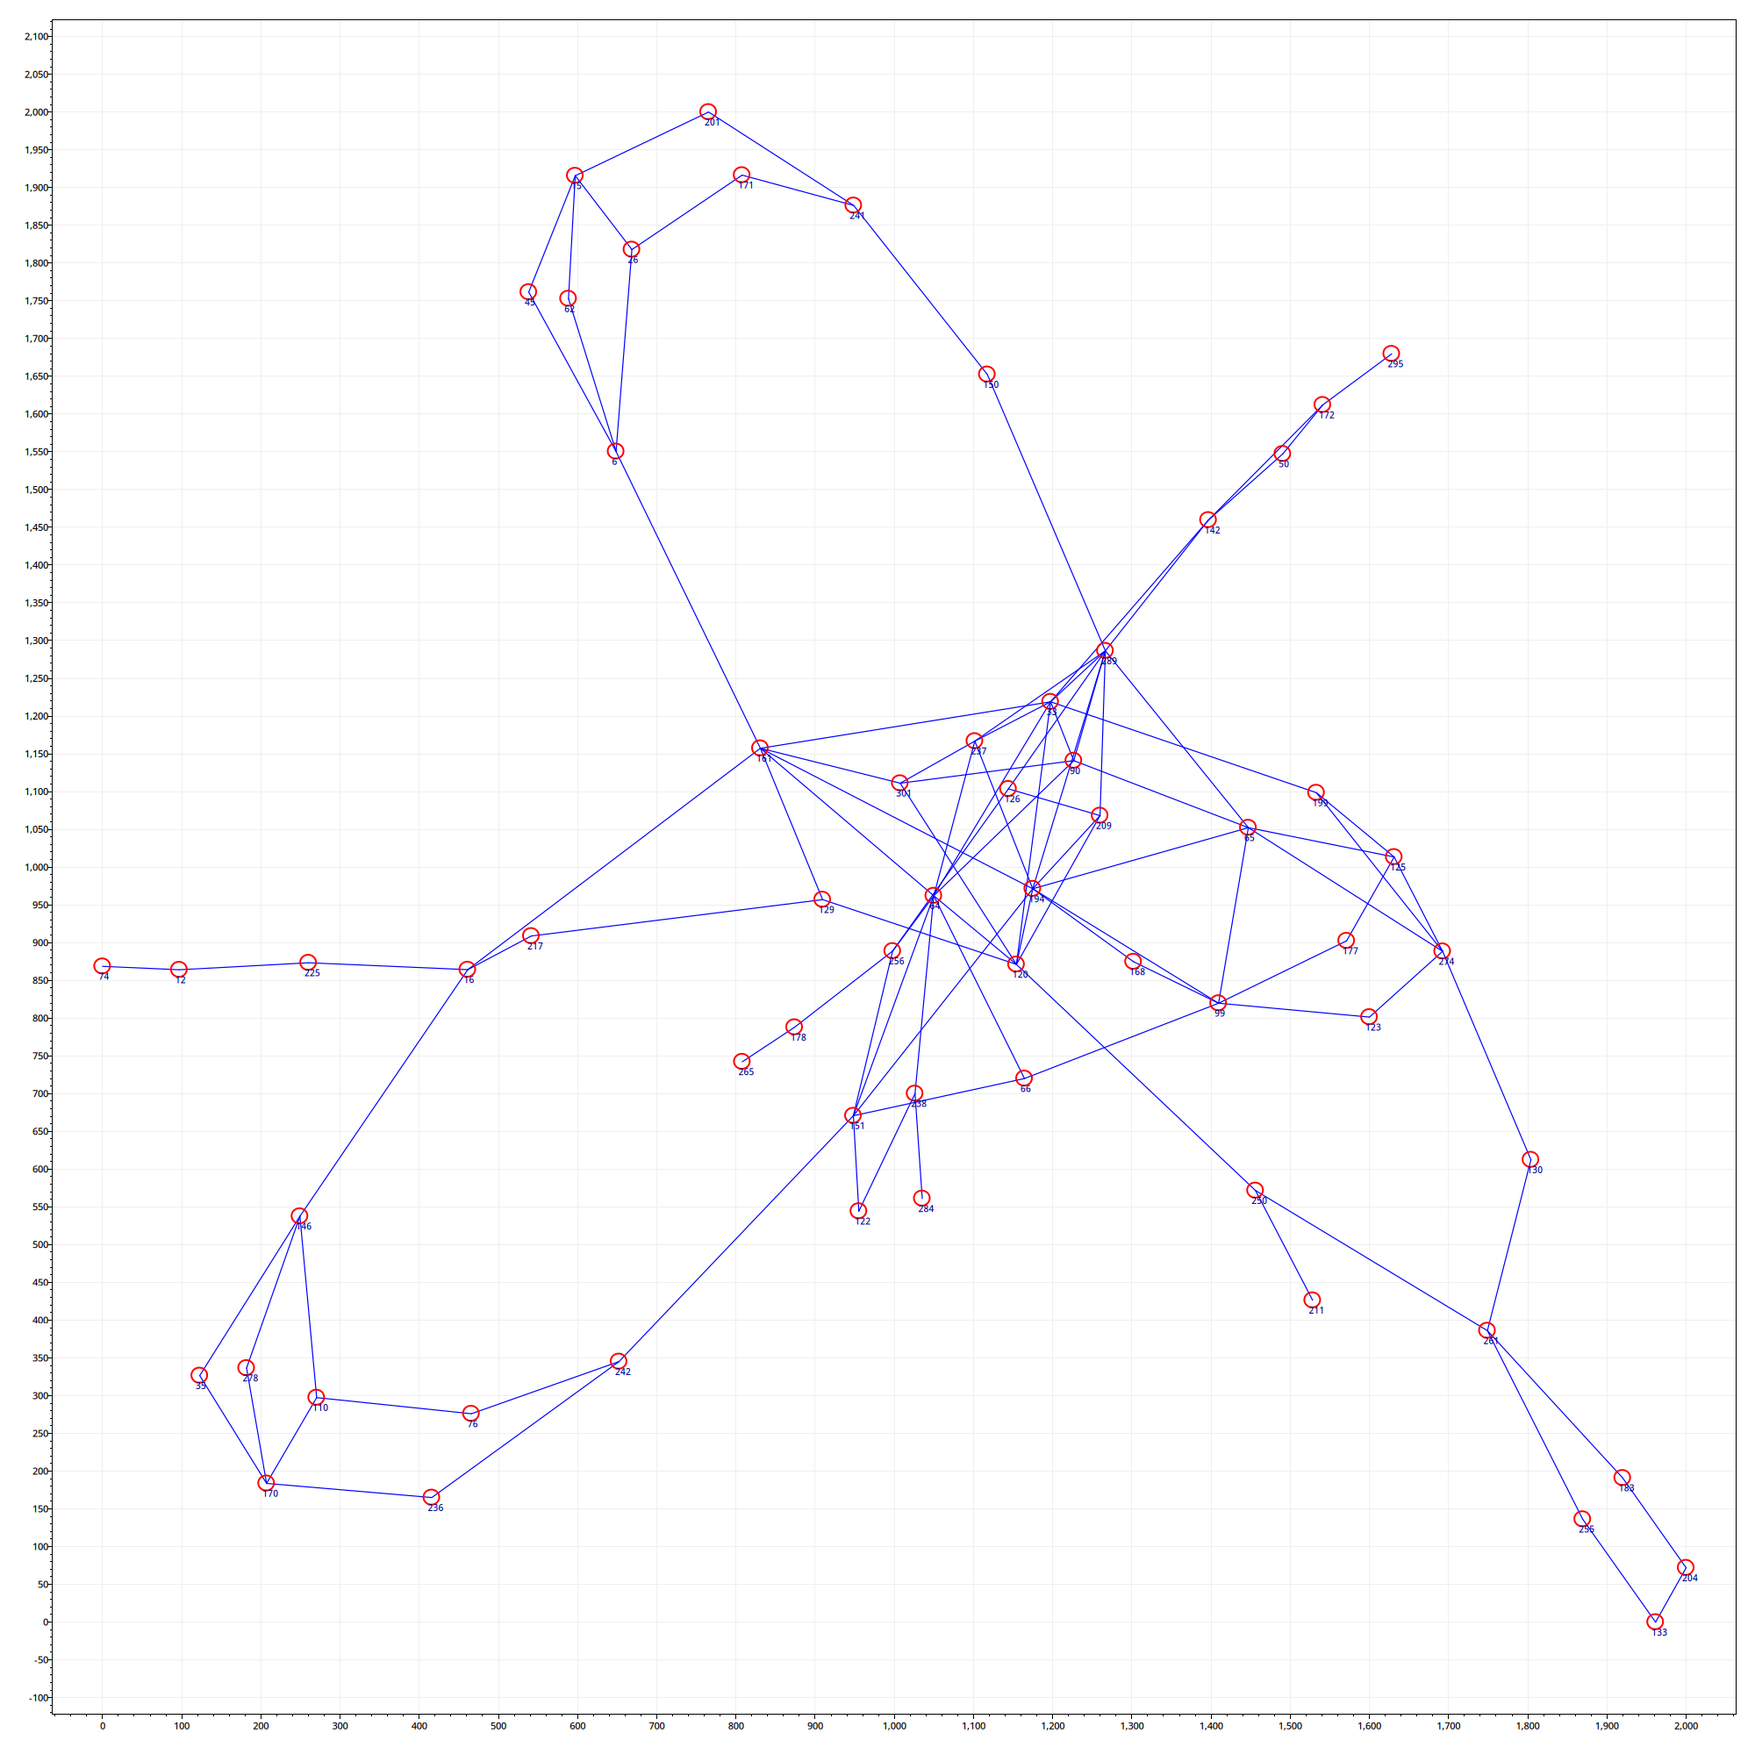
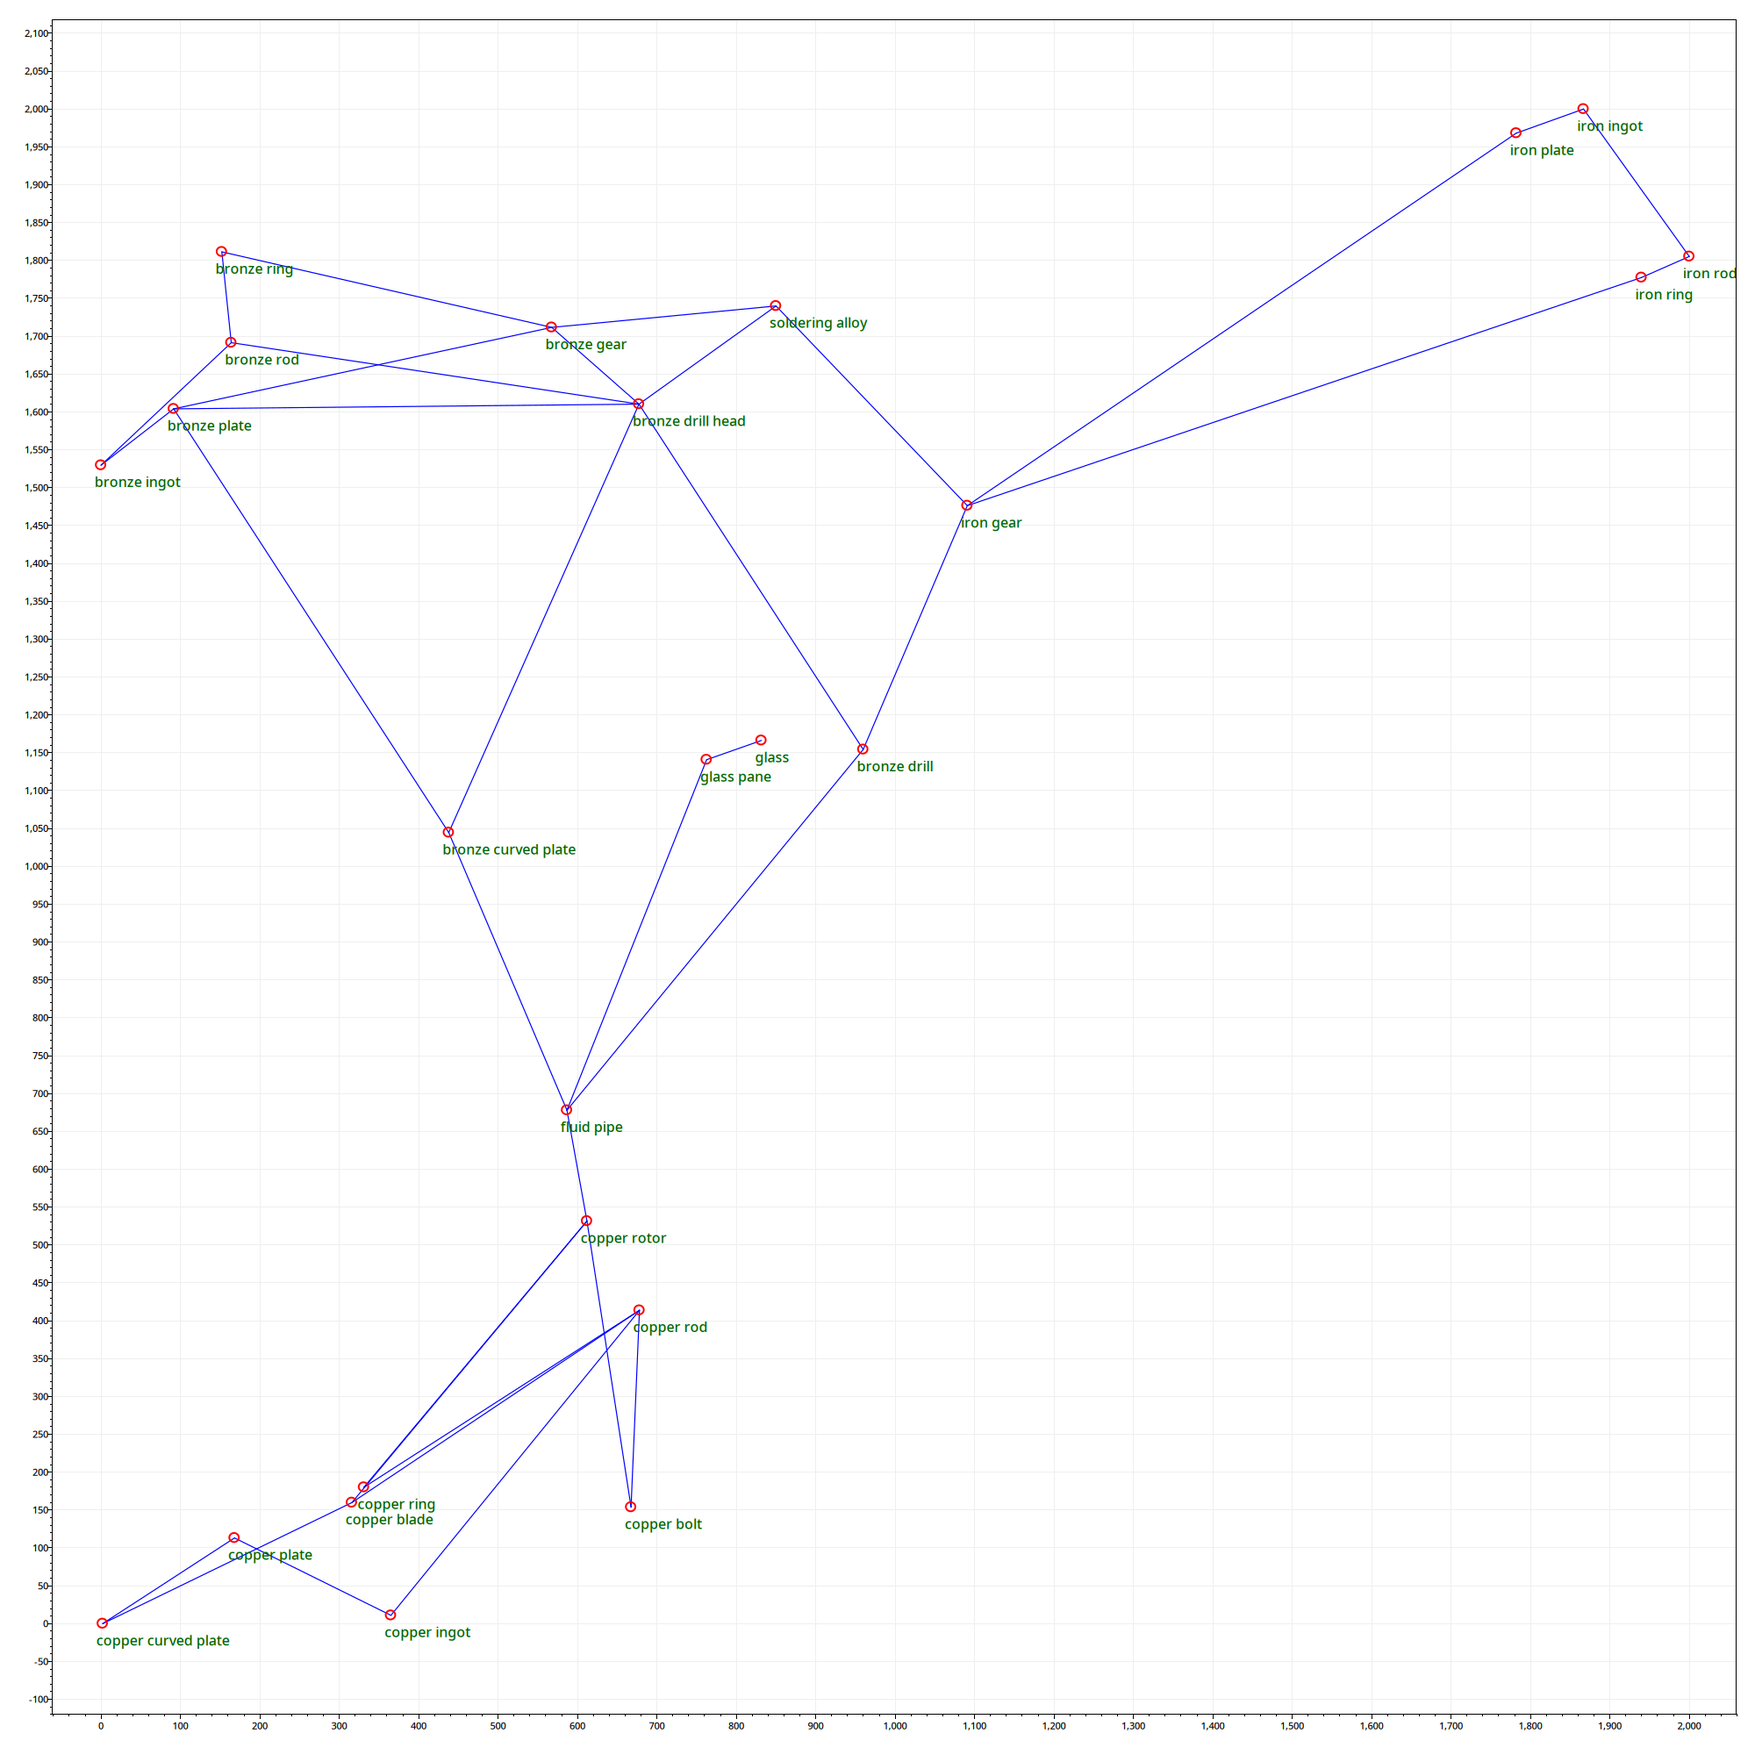
some pretty print and refactoring

diff --git a/Common/Recipes/RecipePipelineBuilder.cs b/Common/Recipes/RecipePipelineBuilder.cs
@@ -27,13 +27,13 @@ public class ResourceEdge : Edge
     /// <summary>
     /// Max amount of resources that can be moved in one second
     /// </summary>
-    public double Capacity{get;set;}=double.MaxValue;
+    public double Capacity{get;set;}=int.MaxValue;
     /// <summary>
     /// Resource name that is moving by this edge
     /// </summary>
     public string Resource{get;set;}
     /// <summary>
-    /// How much resource is moving trough edge
+    /// How much resource is moving trough edge in one sec
     /// </summary>
     public double Flow{get;set;}
 }
@@ -44,30 +44,25 @@ public class RecipeNode : Node
     {
     }
     public IResourceTransformerInfo Recipe{get;set;}
+    /// <summary>
+    /// Amount of transformers that implements recipe.
+    /// </summary>
     public double Amount{get;set;}
+    /// <summary>
+    /// Max possible amount of this machine
+    /// </summary>
+    public double MaxAmount{get;set;} = int.MaxValue;
 }
 
 public static class RecipePipelineBuilder
 {
     /// <summary>
-    /// Builds required recipe information of how to reproduce it, 
+    /// Creates a recipe graph from given recipes.
     /// </summary>
-    /// <param name="resultGraph">
-    /// Resulting resources movement graph.<br/>
-    /// Each node represents recipe. <br/>
-    /// Each node have properties <br/> 
-    /// "recipe" of type <see cref="IResourceTransformerInfo"/> which contain recipe <br/>
-    /// "amount" of <see cref="long"/> which contains amount of this recipe reproducers needed <br/>
-    /// Each edge have properties <br/>
-    /// "resource" of type <see cref="string"/> which contains resource name that is moved trough this edge <br/>
-    /// "flow" of type <see cref="string"/> which contains amount of moved resource from one node to another
-    /// </param>
-    /// <param name="what">What to reproduce</param>
-    /// <returns>
-    /// Topologically sorted chain of transformations
-    /// </returns>
-    public static (IResourceTransformerInfo transformer, double amount)[][] BuildRecipe(this IEnumerable<IResourceTransformerInfo> recipes, IResourceTransformerInfo what, double amount,out Graph<RecipeNode,ResourceEdge> resultGraph)
-    {
+    /// <param name="recipes">A list of recipes</param>
+    /// <param name="what">What we need to produce</param>
+    /// <param name="amount">Amount of resource that we need to produce</param>
+    public static Graph<RecipeNode,ResourceEdge> ToRecipeGraph(this IEnumerable<IResourceTransformerInfo> recipes,IResourceTransformerInfo what, double amount = 1){
         var G = new Graph<RecipeNode,ResourceEdge>(i=>new(i),(a,b)=>new(a,b));
         IResourceTransformerInfo recipe(int nodeId) => G.Nodes[nodeId].Recipe;
         recipes = recipes.Append(what).Distinct().ToList();
@@ -158,108 +153,32 @@ public static class RecipePipelineBuilder
             G.SetSources(edges: G.Do.Induce(allowedNodes).Edges);
             G.Do.RemoveIsolatedNodes();
         }
-        //-----------------------
-        var whatNode = G.Nodes[recipeToId[what]];
+        return G;
+    }
+    /// <summary>
+    /// Builds required recipe information of how to reproduce it, 
+    /// </summary>
+    /// <param name="resultGraph">
+    /// Resulting resources movement graph.<br/>
+    /// Each node represents recipe. <br/>
+    /// Each node have properties <br/> 
+    /// "recipe" of type <see cref="IResourceTransformerInfo"/> which contain recipe <br/>
+    /// "amount" of <see cref="long"/> which contains amount of this recipe reproducers needed <br/>
+    /// Each edge have properties <br/>
+    /// "resource" of type <see cref="string"/> which contains resource name that is moved trough this edge <br/>
+    /// "flow" of type <see cref="string"/> which contains amount of moved resource from one node to another
+    /// </param>
+    /// <param name="what">What to reproduce</param>
+    /// <returns>
+    /// Topologically sorted chain of transformations
+    /// </returns>
+    public static (IResourceTransformerInfo transformer, double amount)[][] BuildRecipe(this IEnumerable<IResourceTransformerInfo> recipes, IResourceTransformerInfo what, double amount,out Graph<RecipeNode,ResourceEdge> resultGraph)
+    {
+        var G = recipes.ToRecipeGraph(what,amount);
+        var whatNode = G.Nodes.First(n=>n.Recipe==what);
         var resG =  BuildRecipe(G,whatNode,amount);
         resultGraph=G;
         return resG;
-        //-----------------------
-
-    //     var productionLines = new DefaultEdgeSource<Edge>();
-    //     var productionUnits = new DefaultNodeSource<Node>(G.Nodes);
-
-    //     // repeatedly reconstruct required amount of resources for 
-    //     // each source(end-tier resource) of graph. One by one.
-    //     // And remove reconstructed node for it's full dependencies have been
-    //     // fulfilled
-    //     while (G.Nodes.Count > 0)
-    //     {
-    //         foreach (var n in G.Nodes.ToList())
-    //         {
-    //             // we fulfill requirements only for sources and non-isolated nodes
-    //             if (!G.Edges.IsSource(n.Id) || G.Edges.AdjacentEdges(n.Id).Count() == 0) continue;
-                
-    //             var dependencies = G.Edges.OutEdges(n.Id);
-
-    //             foreach (var e in dependencies)
-    //             {
-    //                 //by one edge only one resource can move and we get that resource here
-    //                 var res = e.Get<string>("resource");
-    //                 var source = G.Nodes[e.TargetId];
-    //                 var target = G.Nodes[e.SourceId];
-
-    //                 var sourceAmount = source.Get<double>("amount");
-    //                 var targetAmount = target.Get<double>("amount");
-    //                 var sourceRecipe = source.Get<IResourceTransformerInfo>("recipe");
-    //                 var targetRecipe = target.Get<IResourceTransformerInfo>("recipe");
-    //                 //how much of resource `res` we need to put into target in one sec
-    //                 var resourcesNeeded =
-    //                     1.0*targetRecipe.InputResources
-    //                     .First(x => x.resourceName == res)
-    //                     .amount * targetAmount/targetRecipe.Time;
-                    
-    //                 //how much of resource `res` one source produce in one sec
-    //                 var produced = 
-    //                     1.0*sourceRecipe.OutputResources
-    //                     .First(x => x.resourceName == res)
-    //                     .amount/sourceRecipe.Time;
-
-    //                 // find how much of resource `res` is already produced and not consumed yet.
-    //                 // it is equal to:
-    //                 // available = source.Amount*produced - sum( out edges of source with resource `res`)
-    //                 // so can reduce resourcesNeeded=resourcesNeeded-available
-
-    //                 var available = 
-    //                     source.Get<double>("amount")*produced-
-    //                     productionLines.InEdges(source.Id).Sum(se=>se.Get<double>("flow"));
-                    
-    //                 resourcesNeeded-=available;
-
-    //                 // required amount of sources needed to fulfill resources needs of target
-    //                 // in one sec
-    //                 var requiredAmount = 1.0*resourcesNeeded/produced;
-
-    //                 source["amount"] = requiredAmount + sourceAmount;
-
-    //                 // save amount of resource `res` moved by edge in one sec
-    //                 e["flow"] = resourcesNeeded;
-    //                 // and save resulting graph edge
-    //                 productionLines.Add(e);
-    //                 G.Edges.Remove(e);
-    //             }
-    //             G.Nodes.Remove(n);
-    //         }
-    //         G.Do.RemoveIsolatedNodes();
-    //     }
-
-        
-    //     resultGraph = new Graph();
-    //     resultGraph.SetSources(productionUnits,productionLines);
-    //     resultGraph.Do.RemoveIsolatedNodes();
-
-        
-    //     // here we do topological sort
-    //     var clone = new Graph();
-    //     clone.SetSources(productionUnits.AsEnumerable(),productionLines);
-    //     var layers = new List<Node[]>();
-    //     while(clone.Nodes.Count>0){
-    //         var sources = clone.Nodes.Where(n=>clone.Edges.IsSink(n.Id)).ToArray();
-    //         layers.Add(sources);
-    //         clone.Do.RemoveNodes(sources.Select(n=>n.Id).ToArray());
-    //     }
-
-    //    var result = layers
-    //         .Select(
-    //             x => 
-    //             x.Select(
-    //                 x => 
-    //                 (x.Get<IResourceTransformerInfo>("recipe"), x.Get<double>("amount")))
-    //                 .OrderBy(t=>t.Item2)
-    //                 .ToArray())
-    //         .Reverse()
-    //         .ToArray();
-
-    //     return result;
     }
     public static (IResourceTransformerInfo transformer, double amount)[][] BuildRecipe(Graph<RecipeNode,ResourceEdge> G,Node what, double amount)
     {
@@ -360,14 +279,17 @@ public static class RecipePipelineBuilder
             solver.Add(flow <= e.Capacity);
         }
 
+        foreach (var n in G.Nodes){
+            var namount = n.Get<Variable>("amount");
+            solver.Add(namount<=n.MaxAmount);
+        }
+
         //impose objective goal
         var whatAmount = what.Get<Variable>("amount");
         solver.Add(whatAmount >= amount);
         solver.Minimize(totalCost);
 
         var solveRes = solver.Solve();
-        var objres = solver.Objective().Value();
-        var whatAmountRes = whatAmount.SolutionValue();
         if (solveRes != Solver.ResultStatus.OPTIMAL)
             throw new Exception("impossible to build pipeline");
 
@@ -391,11 +313,10 @@ public static class RecipePipelineBuilder
 
         return result;
     }
-
     static void PlanarRender(IGraph<RecipeNode, ResourceEdge> resultGraph){
         var fixedPoints = resultGraph.Nodes.Where(n=>resultGraph.Edges.Degree(n.Id)==1);
         // var pos = resultGraph.Do.PlanarRender(fixedPoints.Select(i=>i.Id).ToArray());
-        var pos = resultGraph.Do.Arrange(200).Positions;
+        var pos = resultGraph.Do.Arrange(200,getWeight:e=> 1).Positions;
         var maxV = DenseVector.Create(2,float.MinValue);
         var minV = DenseVector.Create(2,float.MaxValue);
         foreach(var v in pos.Values){
@@ -411,7 +332,6 @@ public static class RecipePipelineBuilder
             n.MapProperties().Position= (Vector)pos[n.Id];
         }
     }
-
     static (IResourceTransformerInfo Recipe, double Amount)[][] TopologicalSort(Graph<RecipeNode, ResourceEdge> G, IGraph<RecipeNode, ResourceEdge> resultGraph)
     {
         var clone = G.CloneJustConfiguration();

diff --git a/FactorySimulation/Main.cs b/FactorySimulation/Main.cs
@@ -22,18 +22,18 @@ public class Main : IHostedService
     {
         var r = recipes;
         var recipe = r.Recipe[r.basicMachineHull];
-        recipe = r.Recipe["bronze drill head"];
-        recipe = new ResourceTransformerInfo(
-            Transformer: "Result",
-            InputResources: new[]{
-                (recipes.ElectricCompressor,1L),
-                (recipes.ElectricCuttingMachine,2L),
-                (recipes.ElectricMixer,1L),
-                (recipes.ElectricWiremill,3L),
-            },
-            OutputResources: new[]{
-                ("result",1L)
-            });
+        recipe = r.Recipe["bronze drill"];
+        // recipe = new ResourceTransformerInfo(
+        //     Transformer: "Result",
+        //     InputResources: new[]{
+        //         (recipes.ElectricCompressor,1L),
+        //         (recipes.ElectricCuttingMachine,2L),
+        //         (recipes.ElectricMixer,1L),
+        //         (recipes.ElectricWiremill,3L),
+        //     },
+        //     OutputResources: new[]{
+        //         ("result",1L)
+        //     });
         // var js = G.Nodes.Select(n => n.Recipe).ToArray().ManyToJson();
         // File.WriteAllText("rep.json", js);
 
@@ -83,8 +83,10 @@ public class Main : IHostedService
         var shapedrawer = new PlotShapeDrawer(size);
         var drawer = new GraphDrawer<RecipeNode,ResourceEdge>(G,shapedrawer,size,n=>n.MapProperties().Position);
         drawer.DrawEdges(G.Edges,0.0006,Color.Blue);
-        drawer.DrawNodes(G.Nodes,0.005,Color.Red);
-        drawer.DrawNodeIds(G.Nodes,Color.DarkBlue,0.005);
+        drawer.DrawNodes(G.Nodes,0.003,Color.Red);
+        foreach(var n in G.Nodes){
+            drawer.DrawNodeText(n,Color.DarkGreen,0.008,n.Recipe.OutputResources.First().resourceName);
+        }
         shapedrawer.plot.SaveFig("image.png");
     }
     /// <summary>

diff --git a/FactorySimulation.Tests/ResourceTransformerInfoTests.cs b/FactorySimulation.Tests/ResourceTransformerInfoTests.cs
@@ -16,7 +16,7 @@ public class ResourceTransformerInfoTests
                 ("D",2),
             },
             Time: 2,
-            Price: 4
+            Cost: 4
         );
 
         var json = res.ToJson();
@@ -25,7 +25,7 @@ public class ResourceTransformerInfoTests
         Assert.Equal(res.InputResources, converted.InputResources);
         Assert.Equal(res.OutputResources, converted.OutputResources);
         Assert.Equal(res.Time, converted.Time);
-        Assert.Equal(res.Price, converted.Price);
+        Assert.Equal(res.Cost, converted.Cost);
     }
     [Fact]
     public void JsonConvertMany()
@@ -41,7 +41,7 @@ public class ResourceTransformerInfoTests
                 ("D1",44),
             },
             Time: 12,
-            Price: 13
+            Cost: 13
         );
         var res2 = new ResourceTransformerInfo(
             "Machine2",
@@ -54,7 +54,7 @@ public class ResourceTransformerInfoTests
                 ("D2",22),
             },
             Time: 22,
-            Price: 42
+            Cost: 42
         );
         var res3 = new ResourceTransformerInfo(
             "Machine3",
@@ -67,7 +67,7 @@ public class ResourceTransformerInfoTests
                 ("D3",522),
             },
             Time: 122,
-            Price: 242
+            Cost: 242
         );
         var arr = new[] { res1, res2, res3 };
         var json = arr.ManyToJson();
@@ -79,7 +79,7 @@ public class ResourceTransformerInfoTests
             Assert.Equal(p1.InputResources, p2.InputResources);
             Assert.Equal(p1.OutputResources, p2.OutputResources);
             Assert.Equal(p1.Time, p2.Time);
-            Assert.Equal(p1.Price, p2.Price);
+            Assert.Equal(p1.Cost, p2.Cost);
         }
     }
 }

diff --git a/Common/Implementations/ResourceTransformerInfo.cs b/Common/Implementations/ResourceTransformerInfo.cs
@@ -11,7 +11,7 @@ public record ResourceTransformerInfo(string Transformer, (string resourceName, 
 {
     string serialize((string resourceName, long amount)[] data)
     {
-        return JsonSerializer.Serialize(data.Select(x => new string[] { x.resourceName, x.amount.ToString() }),ResourceTransformerInfoExtensions.jsonSerializerOptions())[1..^1];
+        return JsonSerializer.Serialize(data.Select(x => new string[] { x.resourceName, x.amount.ToString() }),ResourceTransformerInfoExtensions.jsonSerializerOptions())[1..^1].Replace("\"","");
         // return JsonSerializer.Serialize(data.Select(x=>new string[]{x.resourceName,x.amount.ToString()}))[1..^1];
     }
     ///<inheritdoc/>
@@ -19,7 +19,9 @@ public record ResourceTransformerInfo(string Transformer, (string resourceName, 
     {
         if (InputResources.Zip(OutputResources).All(x => x.First.resourceName == x.Second.resourceName && x.First.amount == x.Second.amount))
             return $"{Transformer}\n{serialize(InputResources)}";
-        return $"{Transformer}\n{serialize(InputResources)}\n{serialize(OutputResources)}\nTime: {Time}";
+        var timePart = Time!=1 ? $"\nTime: {Time}" : "";
+        var costPart = Cost!=1 ? $"\nCost: {Cost}" : "";
+        return $"{Transformer}\n{serialize(InputResources)}\n{serialize(OutputResources)}{timePart}{costPart}";
     }
     /// <summary>
     /// Converts this object to json
